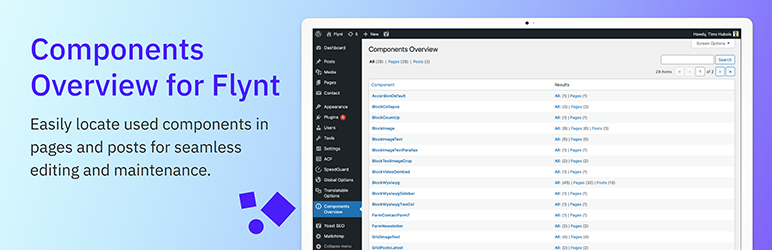
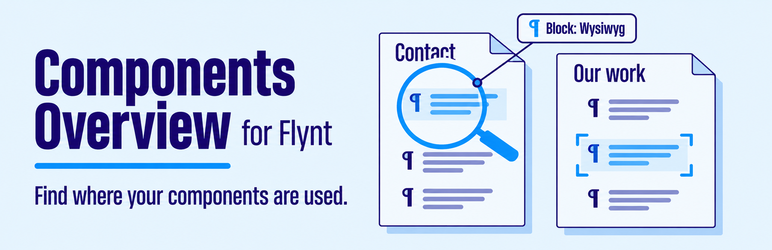
docs: prepare WordPress.org listing copy and assets

diff --git a/README.md b/README.md
@@ -23,6 +23,10 @@ Composer development dependencies are not included in the release.
 
 Keep plugin code compatible with PHP 8.0 when using newer development tools.
 
+## WordPress.org listing artwork
+
+Listing assets live in `.wordpress-org/` and are excluded from plugin ZIPs. The selected Blueprint Finder banners and icon use lossless PNG, alongside two genuine interface screenshots. File sizes and dimensions follow the [WordPress.org asset requirements](https://developer.wordpress.org/plugins/wordpress-org/plugin-assets/).
+
 ## License
 
 GPLv3
